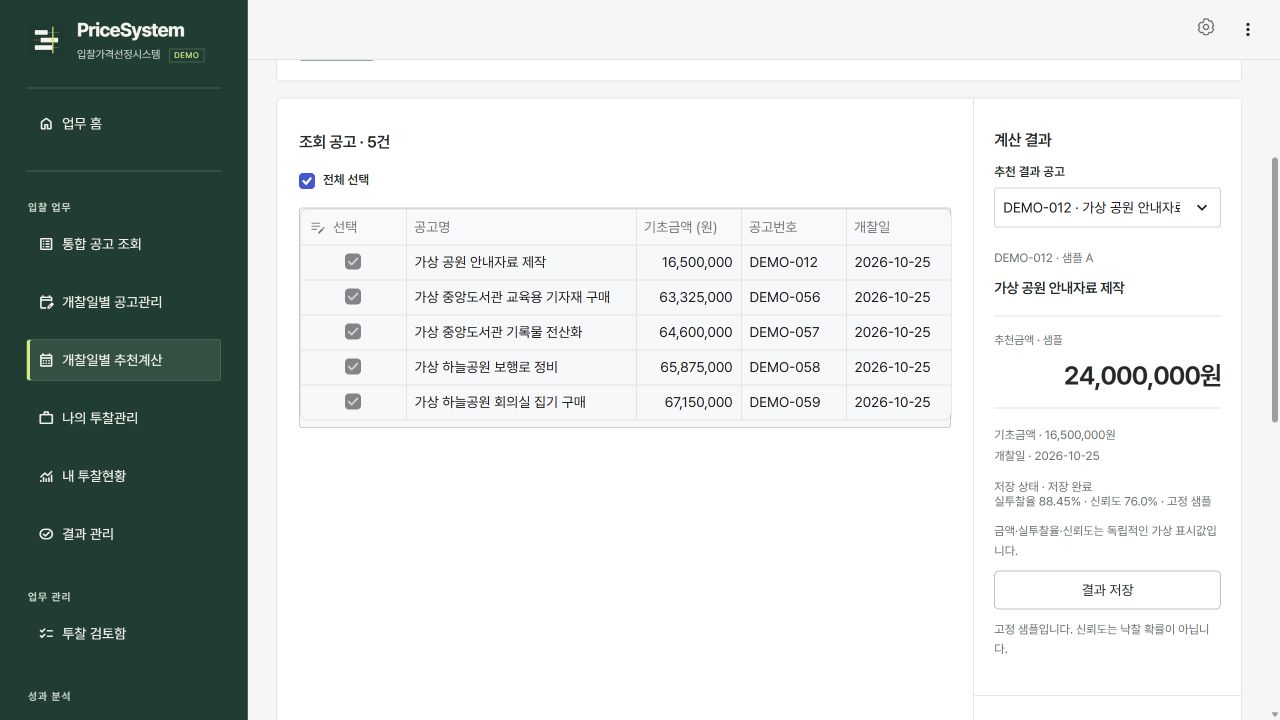
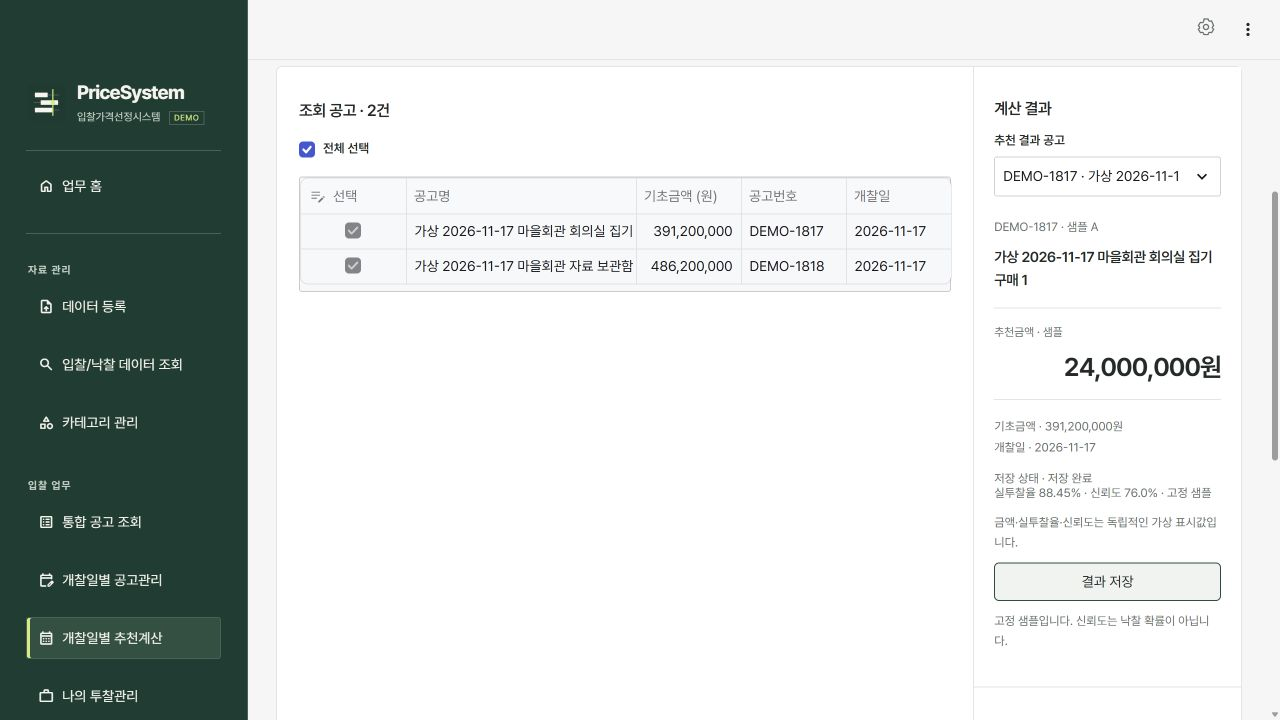
docs: showcase current demo workflows and screenshots

diff --git a/README.md b/README.md
@@ -8,11 +8,48 @@
 
 ## 데모 체험
 
-샘플 공고를 등록한 뒤 개찰일별로 조회하고, 추천 결과 확인과 투찰 내역 등록을 체험할 수 있습니다.
+> 데모의 공고·투찰·낙찰 기록은 가상 데이터입니다. 추천금액과 분석 수치는 고정 샘플이며, 입력한 내용은 현재 세션에만 저장됩니다.
 
-> 데모는 가상 데이터와 고정된 추천·분석 샘플을 사용합니다. 입력한 내용은 현재 세션에만 저장됩니다.
+### 1. 업무 홈에서 개찰 일정 확인
 
-![PriceSystem 데모의 개찰일별 공고 일정](https://raw.githubusercontent.com/inhaaa/PriceSystem-demo/611a46553f12b2926cb04bb7b46e40351cc0fb35/docs/images/home.png)
+조회 월을 고르면 날짜별 공고, 기초금액, 계산 상태를 확인할 수 있습니다. 각 날짜의 `공고 조회`나 `계산` 버튼으로 바로 이동합니다.
+
+![PriceSystem 데모의 개찰일별 공고 일정](docs/images/home.png)
+
+### 2. 관심공고 등록과 추천계산
+
+`데이터 등록 → 관심공고`에서 `샘플 불러오기`를 누르고, 미리보기에서 공고를 선택해 등록합니다. `개찰일별 추천계산`에서는 대상 공고를 확인한 뒤 샘플 추천금액을 확인·저장합니다.
+
+![조회 공고 목록과 샘플 추천금액](docs/images/analysis.png)
+
+<details>
+<summary>관심공고 등록 화면 보기</summary>
+
+![가상 엑셀 자료 미리보기와 선택 등록](docs/images/data-upload.png)
+
+</details>
+
+### 3. 투찰 검토와 결과 비교
+
+`투찰 검토함`에서 자격, 서류, 금액, 마감 일정을 점검하고 검토 상태와 메모를 저장합니다. `나의 투찰관리`에서 투찰 내역을 기록한 뒤, `내 투찰현황`에서 낙찰 여부와 가상 1순위 금액 대비 차이를 확인합니다.
+
+<details>
+<summary>내 투찰현황 화면 보기</summary>
+
+![가상 투찰 결과와 1순위 투찰금액 비교표](docs/images/bid-status.png)
+
+</details>
+
+### 4. 월별 성과 확인
+
+`성과 리포트`에서 기간과 카테고리를 고르고 월별 투찰·낙찰 건수와 낙찰금액 추이를 확인합니다. 상세 집계는 CSV로 내려받을 수 있습니다.
+
+<details>
+<summary>성과 리포트 화면 보기</summary>
+
+![월별 투찰·낙찰 건수와 낙찰금액 추이 차트](docs/images/performance-report.png)
+
+</details>
 
 ## 운영 성과
 
